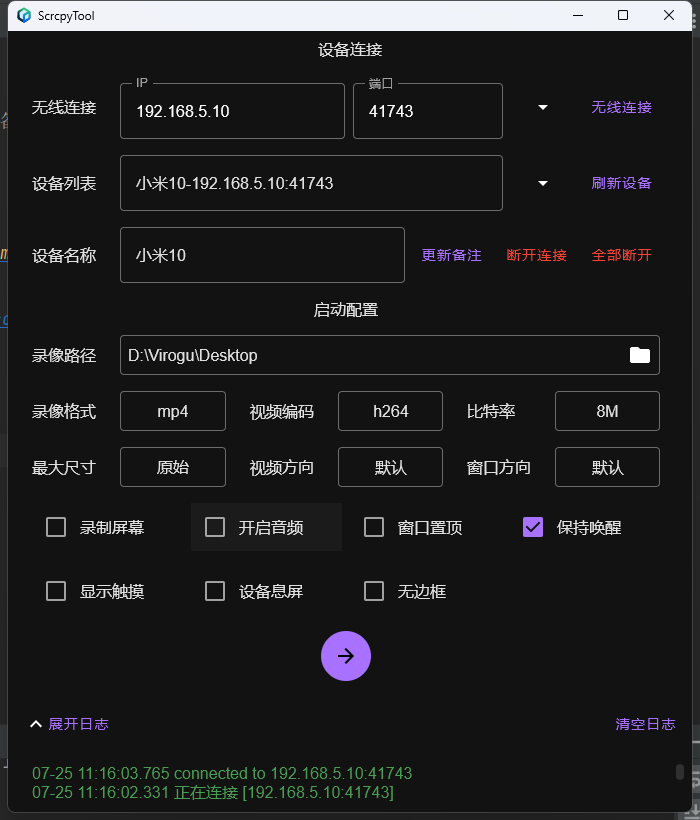
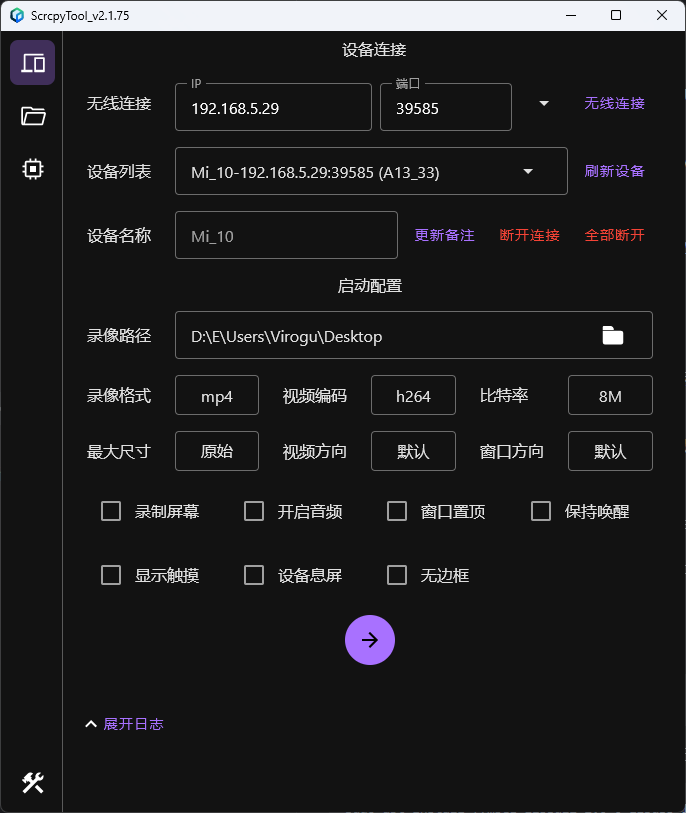
update readme

diff --git a/readme.md b/readme.md
@@ -53,19 +53,16 @@ sudo mkdir /usr/share/desktop-directories/
 
 暂未进行编译测试 ，需要的话自行补充相关内容再编译运行
 
-
-### 界面展示
-
-![主界面](screens/img.png)
-![设备画面显示界面](screens/img_1.png)
-
 ### 设备要求
-
 Android版本需要API21（Android 5.0），并且要开启USB调试
+
+OpenHarmony4.0(Scrcpy暂不支持)
 
 一般在 `开发者选项` - `USB调试`打开，部分深度定制系统还需要打开`允许USB调试修改权限或模拟点击`(`USB调试（安全设置）`)
 
-### 功能介绍
+### 主界面
+![主界面](screens/img.png)
+![设备画面显示界面](screens/img_1.png)
 
 #### 设备连接
 
@@ -76,7 +73,7 @@ ADB连接相关的一些配置选项以及功能按钮
 
   一般手机需要在开发者模式里面打开 `无线调试` 功能，其他特殊设备需要自行打开无线调试。
 
-  下拉列表可以查看已连接过的设备记录，可以选择置顶某个常用的设备，或者清空设备连接记录。
+  下拉列表可以查看已连接过的设备记录，可以选择置顶某个常用的设备，或者删除连接记录。
 
   ![设备连接记录](screens/img_2.png)
 
@@ -115,3 +112,15 @@ scrcpy启动相关的一些配置项
 #### 启动按钮
 
 选择某个已连接的设备点击按钮即可启动/关闭该设备画面的展示窗口。支持同时启动连接多个设备。
+
+### 文件管理
+
+![文件管理](screens/img_4.png)
+
+### 进程管理
+
+![进程管理](screens/img_5.png)
+
+### 辅助工具
+
+![辅助工具](screens/img_6.png)
